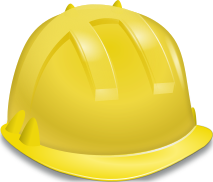
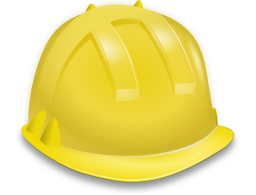
Changed Layout for helmet and generated static file

diff --git a/global/layouts/foreman.css b/global/layouts/foreman.css
@@ -77,7 +77,11 @@
  ************************************************/
 
 .net-header img {
-  margin-right: 1.5em;
+  margin-right: 0;
+  display: block;
+  width: auto;
+  height: 97%;
+  margin-top: -1em;
 }
 
 .content .net-header + h1:not(.section-title) {
@@ -162,15 +166,16 @@
     height: 4em;
     border-bottom: .0625em solid black;
     width: 100%;
+    text-align: right;
   }
 
   .net-header img {
-    height: 65px; /* The negative margin workaround does not work with wkhtmltopdf.. */
-    width: 75px;
-    text-align: right;
-    margin-right: 10px;
+    height: 65px; 
+    width: auto;
+    margin-right: 30px;
     margin-bottom: 10px;
-    float: right;
+    margin-top: -0.5em;
+    display:inline-block;
   }
 
   #pre_netways_title_00_title1 .net-header,
@@ -191,6 +196,13 @@
 
   .net-footer {
     display: none;
+  }
+}
+
+@media print and (max-width: 11cm) {
+  .net-header img {
+    width: 90px;
+    height:70px;
   }
 }
 

diff --git a/static/file/foreman.css b/static/file/foreman.css
@@ -77,7 +77,11 @@
  ************************************************/
 
 .net-header img {
-  margin-right: 1.5em;
+  margin-right: 0;
+  display: block;
+  width: auto;
+  height: 97%;
+  margin-top: -1em;
 }
 
 .content .net-header + h1:not(.section-title) {
@@ -162,15 +166,16 @@
     height: 4em;
     border-bottom: .0625em solid black;
     width: 100%;
+    text-align: right;
   }
 
   .net-header img {
-    height: 65px; /* The negative margin workaround does not work with wkhtmltopdf.. */
-    width: 75px;
-    text-align: right;
-    margin-right: 10px;
+    height: 65px; 
+    width: auto;
+    margin-right: 30px;
     margin-bottom: 10px;
-    float: right;
+    margin-top: -0.5em;
+    display:inline-block;
   }
 
   #pre_netways_title_00_title1 .net-header,
@@ -191,6 +196,13 @@
 
   .net-footer {
     display: none;
+  }
+}
+
+@media print and (max-width: 11cm) {
+  .net-header img {
+    width: 90px;
+    height:70px;
   }
 }
 
